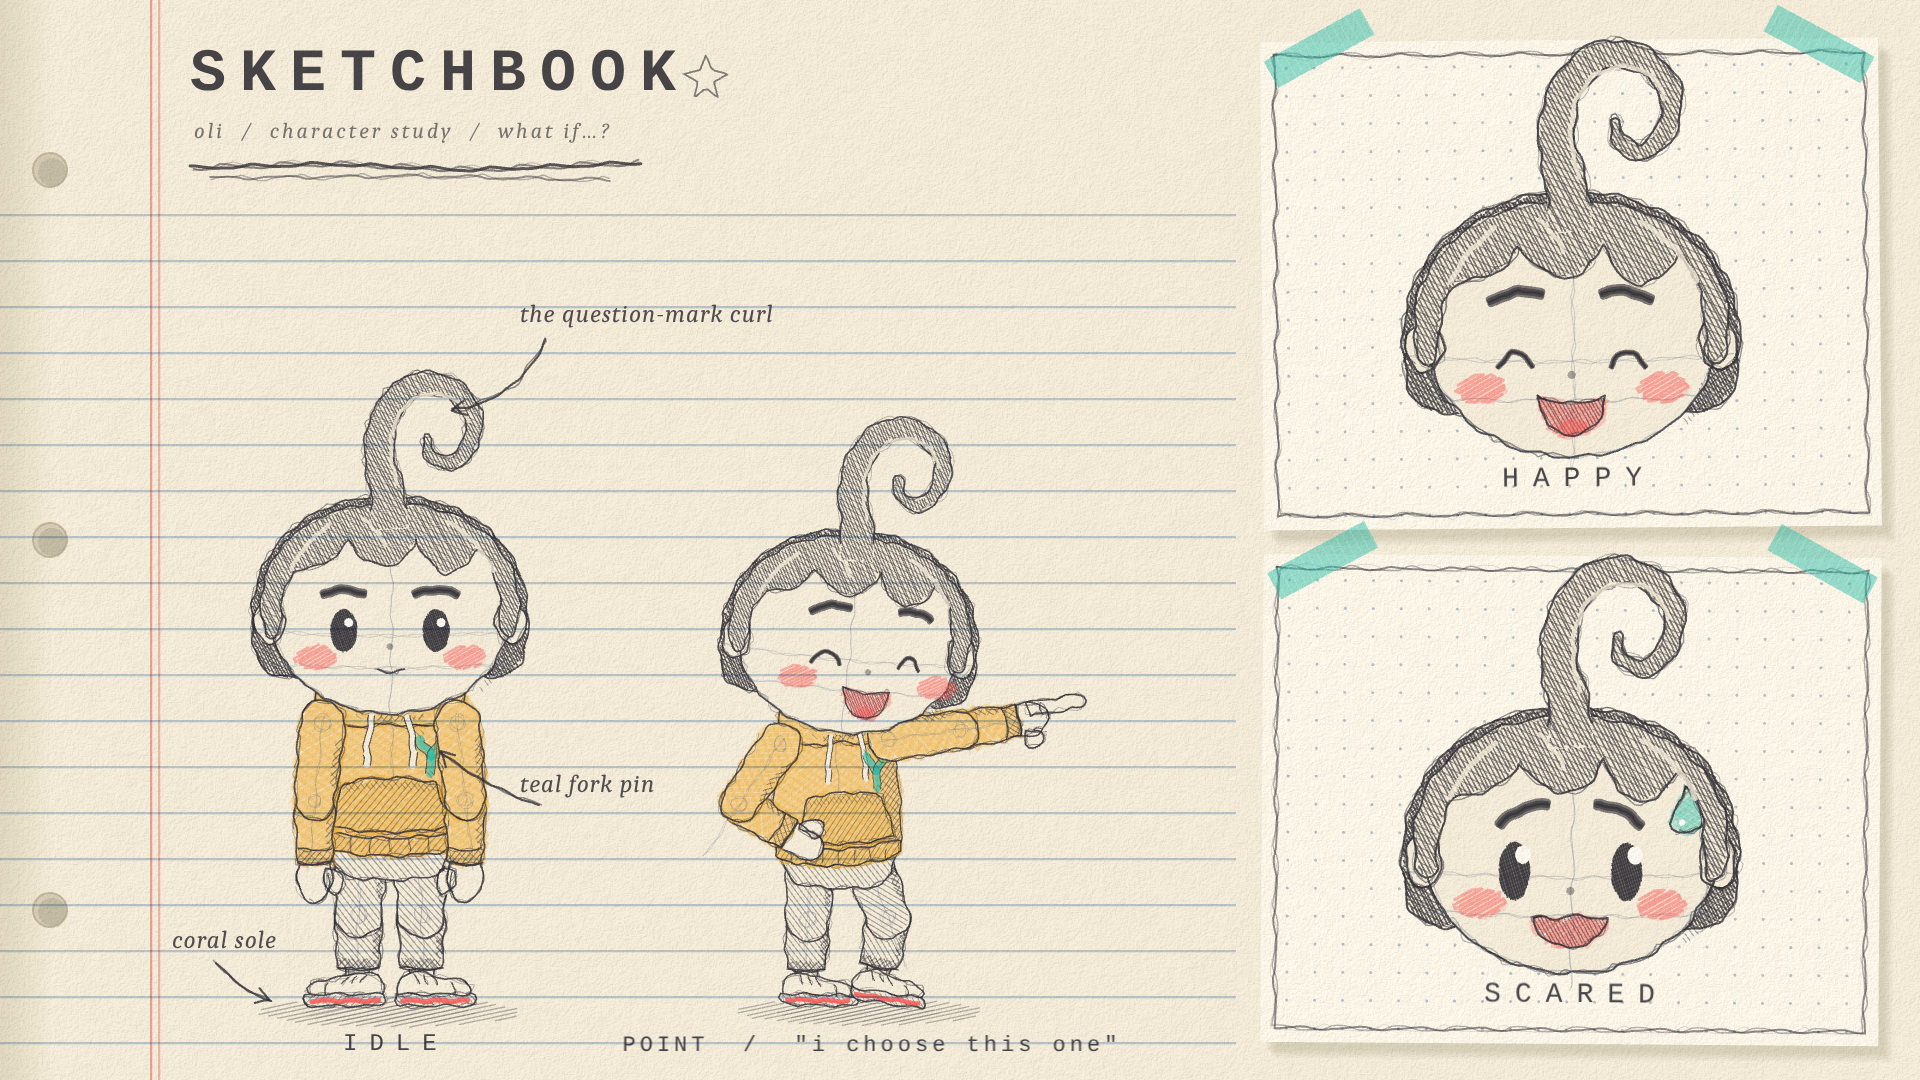
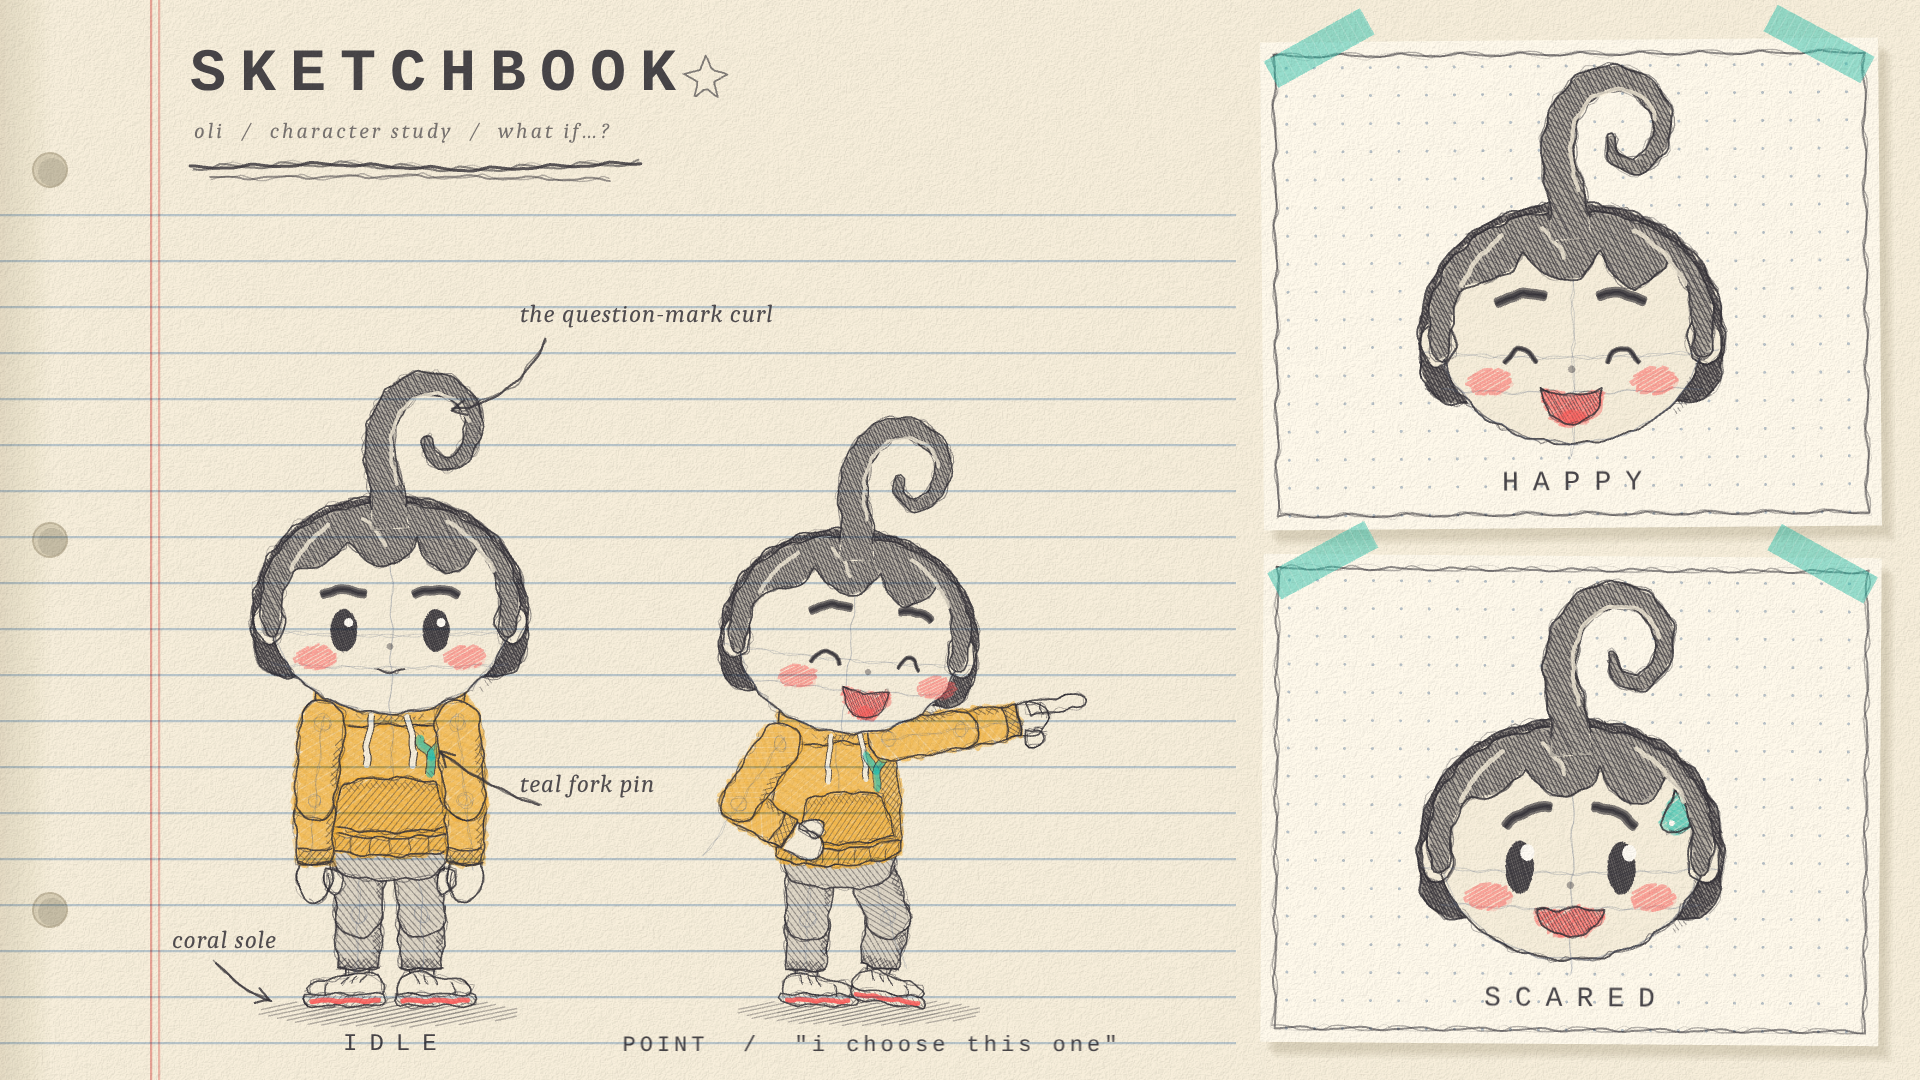
Add voxel, isometric diorama, watercolor and sketchbook character concept sheets
Claude-Session: https://claude.ai/code/session_014Lkf6Yhz1EryPLnDh7J4BE

diff --git a/pilot/characters/concepts/diorama/index.html b/pilot/characters/concepts/diorama/index.html
@@ -1,0 +1,180 @@
+<!doctype html>
+<html lang="en"><head><meta charset="utf-8"><title>ISOMETRIC DIORAMA</title>
+<script type="importmap">{"imports":{"three":"/node_modules/three/build/three.module.js"}}</script>
+<style>
+  html,body{margin:0;background:#F4EAD5}
+  #stage{position:relative;width:1920px;height:1080px;overflow:hidden;background:#F4EAD5;
+    font-family:"Trebuchet MS","Segoe UI","DejaVu Sans",sans-serif;color:#1E1B24}
+  canvas{position:absolute;left:0;top:0;width:1920px;height:1080px}
+  .card{position:absolute;border-radius:26px;background:linear-gradient(180deg,rgba(255,252,244,.78),rgba(250,240,218,.5));box-shadow:inset 0 0 0 2px rgba(120,90,50,.12)}
+  .lab{position:absolute;font-size:16px;font-weight:800;letter-spacing:.18em;text-transform:uppercase;
+    background:#1E1B24;color:#FFF4DC;padding:6px 14px;border-radius:999px}
+  .lab.teal{background:#2EC4B6;color:#1E1B24}
+  .lab.coral{background:#FF5D5D;color:#1E1B24}
+  #title{position:absolute;left:44px;top:22px;font-size:40px;font-weight:900;letter-spacing:.2em;white-space:nowrap}
+  #sub{position:absolute;left:47px;top:78px;font-size:14px;letter-spacing:.18em;text-transform:uppercase;opacity:.6}
+</style></head>
+<body><div id="stage"></div>
+<script type="module">
+import * as THREE from 'three';
+import { createCharacter, setPose, setExpression, PALETTE as P } from './character.js';
+
+const W = 1920, H = 1080;
+const stage = document.getElementById('stage');
+const el = (cls, html, x, y, w, h) => { const d = document.createElement('div'); d.className = cls; d.innerHTML = html;
+  Object.assign(d.style, { left: x + 'px', top: y + 'px', ...(w ? { width: w + 'px', height: h + 'px' } : {}) }); stage.appendChild(d); return d; };
+const R = { idle: [30, 118, 650, 930], point: [696, 118, 650, 930], happy: [1362, 118, 528, 452], scared: [1362, 596, 528, 452] };
+for (const r of Object.values(R)) el('card', '', ...r);
+
+const canvas = document.createElement('canvas'); stage.appendChild(canvas);
+const renderer = new THREE.WebGLRenderer({ canvas, antialias: true, alpha: true, preserveDrawingBuffer: true });
+renderer.setPixelRatio(1); renderer.setSize(W, H, false); renderer.setClearColor(0x000000, 0);
+renderer.toneMapping = THREE.ACESFilmicToneMapping; renderer.toneMappingExposure = 1.05;
+renderer.outputColorSpace = THREE.SRGBColorSpace;
+renderer.shadowMap.enabled = true; renderer.shadowMap.type = THREE.PCFShadowMap;
+
+const hash = (n) => { const x = Math.sin(n * 127.1 + 311.7) * 43758.5453; return x - Math.floor(x); };
+const mats = new Map();
+const M = (hex, o = {}) => { const k = hex + JSON.stringify(o); if (!mats.has(k)) mats.set(k, new THREE.MeshStandardMaterial({ color: hex, flatShading: true, roughness: 0.85, metalness: 0, ...o })); return mats.get(k); };
+const glow = (hex) => new THREE.MeshBasicMaterial({ color: hex, toneMapped: false });
+function box(w, h, d, hex, x, y, z, { cast = true, recv = true, mat } = {}) {
+  const m = new THREE.Mesh(new THREE.BoxGeometry(w, h, d), mat || M(hex)); m.position.set(x, y, z); m.castShadow = cast; m.receiveShadow = recv; return m;
+}
+function lights(scene, { size = 2048, box: bx = 4.5, target = [0, 0.8, 0] } = {}) {
+  scene.add(new THREE.HemisphereLight(0xfff3df, 0xcdb48c, 1.35));
+  const key = new THREE.DirectionalLight(0xffe4be, 3.0);
+  key.position.set(-3.5, 9, 6); key.target.position.set(...target);
+  key.castShadow = true; key.shadow.mapSize.set(size, size);
+  Object.assign(key.shadow.camera, { left: -bx, right: bx, top: bx, bottom: -bx, near: 1, far: 30 });
+  key.shadow.bias = -0.0004; key.shadow.normalBias = 0.03; key.shadow.radius = 5;
+  scene.add(key, key.target);
+  const fill = new THREE.DirectionalLight(0xcfe2ff, 0.7); fill.position.set(7, 3, -2); scene.add(fill);
+}
+
+// ---------- the floating island
+const SZ = 3.6, HALF = SZ / 2;
+function island() {
+  const g = new THREE.Group(); g.name = 'island';
+  // curb ring
+  const cw = 0.12, ch = 0.09;
+  g.add(box(SZ, ch, cw, 0xf3ecdd, 0, ch / 2 - 0.01, HALF - cw / 2), box(SZ, ch, cw, 0xf3ecdd, 0, ch / 2 - 0.01, -HALF + cw / 2),
+    box(cw, ch, SZ - 2 * cw, 0xf3ecdd, HALF - cw / 2, ch / 2 - 0.01, 0), box(cw, ch, SZ - 2 * cw, 0xf3ecdd, -HALF + cw / 2, ch / 2 - 0.01, 0));
+  // paving tiles
+  const n = 5, inner = SZ - 2 * cw, ts = inner / n;
+  g.add(box(inner, 0.1, inner, 0xb9aa8c, 0, -0.06, 0));
+  for (let i = 0; i < n; i++) for (let j = 0; j < n; j++) {
+    const k = i * 7 + j * 3, even = (i + j) & 1, jit = hash(k) * 0.03;
+    g.add(box(ts - 0.035, 0.1, ts - 0.035, even ? 0xe2d6bd : 0xefe5cf, -inner / 2 + ts * (i + 0.5), -0.05 + jit * 0.2, -inner / 2 + ts * (j + 0.5), { cast: false }));
+  }
+  // layers cut away at the edges: concrete, soil, dark soil
+  g.add(box(SZ, 0.2, SZ, 0xcdbfa3, 0, -0.21, 0));
+  g.add(box(SZ - 0.02, 0.5, SZ - 0.02, 0x9c6b45, 0, -0.56, 0));
+  g.add(box(SZ - 0.5, 0.42, SZ - 0.5, 0x7a5034, 0, -1.02, 0));
+  // pebbles + roots poking out of the soil faces
+  for (let i = 0; i < 16; i++) {
+    const t = hash(i * 3.3) * (SZ - 0.5) - (SZ - 0.5) / 2, y = -0.4 - hash(i * 1.7) * 0.4, sc = 0.05 + hash(i * 9.1) * 0.06;
+    const onZ = i % 2 === 0;
+    const p = box(sc * 1.6, sc, sc, 0xc2a57d, onZ ? t : HALF - 0.005, y, onZ ? HALF - 0.005 : t, { cast: false });
+    p.rotation.y = hash(i) * 3; g.add(p);
+  }
+  // hanging rock cones (points down)
+  const rocks = [[0.1, 0.1, 0.95, 1.7], [1.0, 1.0, 0.62, 1.15], [-0.85, 1.0, 0.55, 0.9], [1.15, -0.55, 0.5, 0.85], [-1.0, -0.4, 0.5, 0.8], [0.2, 1.25, 0.4, 0.7]];
+  rocks.forEach(([x, z, r, h], i) => {
+    const m = new THREE.Mesh(new THREE.ConeGeometry(r, h, 5 + (i % 2), 1), M(i % 2 ? 0x6b5a52 : 0x7d6a60)); m.rotation.x = Math.PI; m.rotation.y = i;
+    m.position.set(x, -1.23 - h / 2 + 0.02, z); m.castShadow = true; m.receiveShadow = true; g.add(m);
+  });
+  return g;
+}
+function props() {
+  const g = new THREE.Group(); g.name = 'props';
+  // cut-away brick walls (back corner)
+  const wallC = 0xe6a98a, capC = 0xf6ead2, grooveC = 0xd18d70;
+  const wz = -HALF + 0.27, wx = -HALF + 0.27;
+  g.add(box(SZ - 0.24, 2.35, 0.3, wallC, 0.02, 1.17, wz), box(SZ - 0.24, 0.08, 0.36, capC, 0.02, 2.39, wz));
+  for (const y of [0.45, 0.95, 1.45, 1.95]) g.add(box(SZ - 0.24, 0.025, 0.31, grooveC, 0.02, y, wz + 0.002, { cast: false }));
+  g.add(box(0.3, 1.0, 1.7, wallC, wx, 0.5, -0.8), box(0.36, 0.07, 1.7, capC, wx, 1.03, -0.8));
+  g.add(box(SZ - 0.1, 0.12, 0.34, 0xc4876c, 0.0, 0.06, wz + 0.01, { cast: false }));
+  // mysterious door (teal), set into the back wall
+  const dx = 0.75, dz = wz + 0.17;
+  g.add(box(1.02, 2.12, 0.1, 0xfff4dc, dx, 1.06, dz), box(0.8, 1.95, 0.08, 0x2ec4b6, dx, 0.98, dz + 0.06));
+  g.add(box(0.5, 0.78, 0.03, 0x24a597, dx, 0.58, dz + 0.115, { cast: false }), box(0.5, 0.78, 0.03, 0x24a597, dx, 1.5, dz + 0.115, { cast: false }));
+  const knob = new THREE.Mesh(new THREE.IcosahedronGeometry(0.055, 0), M(0xf2b33d)); knob.position.set(dx + 0.27, 1.0, dz + 0.15); g.add(knob);
+  g.add(box(0.07, 0.12, 0.02, 0x1e1b24, dx, 1.2, dz + 0.12, { cast: false }));
+  g.add(box(0.62, 0.012, 0.35, 0xfff0b0, dx, 0.012, dz + 0.3, { cast: false, mat: glow(0xffe9a3) }));            // light under the door
+  // lamp post
+  const lx = -1.35, lz = 1.05;
+  g.add(box(0.3, 0.12, 0.3, 0x3c3a4a, lx, 0.06, lz), box(0.2, 0.18, 0.2, 0x3c3a4a, lx, 0.21, lz));
+  const pole = new THREE.Mesh(new THREE.CylinderGeometry(0.05, 0.065, 2.6, 6), M(0x3c3a4a)); pole.position.set(lx, 1.5, lz); pole.castShadow = true; g.add(pole);
+  g.add(box(0.36, 0.06, 0.36, 0x3c3a4a, lx, 2.82, lz));
+  g.add(box(0.28, 0.34, 0.28, 0xffd27a, lx, 3.02, lz, { cast: false, mat: glow(0xffd98a) }));
+  const cap = new THREE.Mesh(new THREE.ConeGeometry(0.28, 0.2, 4), M(0x3c3a4a)); cap.rotation.y = Math.PI / 4; cap.position.set(lx, 3.29, lz); cap.castShadow = true; g.add(cap);
+  const pl = new THREE.PointLight(0xffc870, 2.2, 3.2, 2); pl.position.set(lx, 2.9, lz); g.add(pl);
+  // bench against the wall
+  const bx = -0.78, bz = wz + 0.46;
+  for (let i = 0; i < 3; i++) g.add(box(1.0, 0.045, 0.1, 0xb27a52, bx, 0.38, bz - 0.1 + i * 0.1));
+  g.add(box(1.0, 0.18, 0.04, 0xb27a52, bx, 0.72, bz - 0.17), box(1.0, 0.1, 0.04, 0xb27a52, bx, 0.58, bz - 0.17));
+  for (const s of [-1, 1]) g.add(box(0.06, 0.4, 0.3, 0x3c3a4a, bx + s * 0.44, 0.2, bz), box(0.06, 0.38, 0.04, 0x3c3a4a, bx + s * 0.44, 0.58, bz - 0.17));
+  // small shrub by the lamp
+  for (const [x, z, r] of [[-1.45, 1.55, 0.22], [-1.15, 1.58, 0.16], [-1.55, 1.3, 0.14]]) { const b = new THREE.Mesh(new THREE.IcosahedronGeometry(r, 0), M(0x5db56a)); b.position.set(x, r * 0.8, z); b.castShadow = true; g.add(b); }
+  return g;
+}
+function clouds(scene) {
+  const g = new THREE.Group();
+  for (const [x, y, z, s] of [[-3.6, 2.6, -4.5, 1], [4.2, -1.2, 3.5, 0.8]]) {
+    const c = new THREE.Group();
+    for (const [ox, oy, r] of [[0, 0, .5], [.55, -.08, .4], [-.55, -.1, .38], [.15, .25, .35]]) c.add(new THREE.Mesh(new THREE.IcosahedronGeometry(r, 1), M(0xffffff, { roughness: 1, transparent: true, opacity: 0.85 })));
+    [[0, 0], [.55, -.08], [-.55, -.1], [.15, .25]].forEach(([ox, oy], i) => { c.children[i].position.set(ox, oy, 0); c.children[i].scale.set(1, 0.7, 1); });
+    c.position.set(x, y, z); c.scale.setScalar(s); g.add(c);
+  }
+  scene.add(g);
+}
+const sTex = (() => { const cv = document.createElement('canvas'); cv.width = cv.height = 128; const g = cv.getContext('2d');
+  const gr = g.createRadialGradient(64, 64, 2, 64, 64, 62); gr.addColorStop(0, 'rgba(90,60,30,.34)'); gr.addColorStop(.6, 'rgba(90,60,30,.12)'); gr.addColorStop(1, 'rgba(90,60,30,0)');
+  g.fillStyle = gr; g.fillRect(0, 0, 128, 128); const t = new THREE.CanvasTexture(cv); t.colorSpace = THREE.SRGBColorSpace; return t; })();
+
+const panels = [];
+function isoPanel(rect, setup, { fh, target, dir = [1, 1, 1], az = 0 }) {
+  const [, , w, h] = rect, scene = new THREE.Scene(); lights(scene);
+  const aspect = w / h;
+  const cam = new THREE.OrthographicCamera(-fh * aspect / 2, fh * aspect / 2, fh / 2, -fh / 2, 0.1, 100);
+  const t = new THREE.Vector3(...target), d = new THREE.Vector3(...dir).normalize().multiplyScalar(30);
+  cam.position.copy(t).add(d); cam.lookAt(t); cam.updateProjectionMatrix(); cam.updateMatrixWorld();
+  setup(scene); panels.push({ rect, scene, camera: cam });
+}
+function world(scene, pose) {
+  scene.add(island(), props());
+  const sh = new THREE.Mesh(new THREE.PlaneGeometry(6.4, 6.4), new THREE.MeshBasicMaterial({ map: sTex, transparent: true, depthWrite: false, toneMapped: false }));
+  sh.rotation.x = -Math.PI / 2; sh.position.y = -3.3; scene.add(sh);
+  const wrap = new THREE.Group(); wrap.position.set(0.1, 0.0, 0.5); wrap.rotation.y = Math.PI / 4; wrap.scale.setScalar(1.12); scene.add(wrap);
+  const c = createCharacter(); setPose(c, pose); setExpression(c, pose === 'point' ? 'happy' : 'neutral'); wrap.add(c);
+  // standing on the tile surface (y = 0.0)
+  c.position.y = 0.0;
+  return c;
+}
+const ISO = { fh: 7.8, target: [0, 0.3, 0] };
+isoPanel(R.idle, (s) => world(s, 'idle'), ISO);
+isoPanel(R.point, (s) => world(s, 'point'), ISO);
+for (const [k, ex, yaw] of [['happy', 'happy', 0.5], ['scared', 'scared', 0.5]]) {
+  const rect = R[k], [, , w, h] = rect, scene = new THREE.Scene(); lights(scene, { size: 1024, box: 2, target: [0, 1.6, 0] });
+  const c = createCharacter(); setExpression(c, ex); c.rotation.y = yaw; scene.add(c);
+  const fh = 2.15, aspect = w / h;
+  const cam = new THREE.OrthographicCamera(-fh * aspect / 2, fh * aspect / 2, fh / 2, -fh / 2, 0.1, 100);
+  cam.position.set(2.6, 3.2, 6.5).add(new THREE.Vector3(0, 0, 0)); cam.lookAt(0, 1.75, 0); cam.position.y += 0; cam.updateProjectionMatrix(); cam.updateMatrixWorld();
+  panels.push({ rect, scene, camera: cam });
+}
+
+el('lab', 'idle · iso front', R.idle[0] + 18, R.idle[1] + R.idle[3] - 50);
+el('lab', 'point · "this one"', R.point[0] + 18, R.point[1] + R.point[3] - 50);
+el('lab teal', 'happy', R.happy[0] + 18, R.happy[1] + R.happy[3] - 50);
+el('lab coral', 'scared', R.scared[0] + 18, R.scared[1] + R.scared[3] - 50);
+el('', 'ISOMETRIC DIORAMA', 0, 0).id = 'title'; el('', 'Oli · tiny floating street · flat low-poly · orthographic iso camera', 0, 0).id = 'sub';
+document.getElementById('title').style.cssText = 'left:44px;top:22px'; document.getElementById('sub').style.cssText = 'left:47px;top:78px';
+
+renderer.setScissorTest(true);
+for (const p of panels) {
+  const [x, y, w, h] = p.rect;
+  renderer.setViewport(x, H - y - h, w, h); renderer.setScissor(x, H - y - h, w, h);
+  renderer.render(p.scene, p.camera);
+}
+window.__READY = true;
+</script></body></html>

diff --git a/pilot/characters/concepts/diorama/character.js b/pilot/characters/concepts/diorama/character.js
@@ -274,18 +274,17 @@ export function setPose(c, name) {
     p.head.rotation.x = 0.03;
     p.hair_curl.rotation.z = 0.06;
   } else if (name === 'point') {
-    c.rotation.y = -0.8;
-    p.hips.rotation.z = 0.05; p.torso.rotation.z = -0.07; p.torso.rotation.y = 0.12;
-    // pointing arm (near arm): forward, slightly raised
-    p.armR_upper.rotation.set(-1.6, 0, -0.3);
-    p.armR_lower.rotation.set(-0.06, 0, 0);
-    p.handR.userData.index.visible = true;
-    // near arm relaxed, forearm slightly forward
-    p.armL_upper.rotation.set(0.1, 0, 0.24); p.armL_lower.rotation.set(-0.5, 0, 0);
-    // weight on right leg (straight), left leg relaxed
-    p.legR_upper.rotation.set(0, 0, -0.02);
-    p.legL_upper.rotation.set(-0.18, 0, 0.1); p.legL_lower.rotation.set(0.42, 0, 0); p.footL.rotation.set(-0.24, 0, 0);
-    p.head.rotation.set(0.0, 0.5, 0.13);
+    // iso diorama: body faces the camera, the character's LEFT arm (screen right) points sideways at "the one"
+    c.rotation.y = 0;
+    p.hips.rotation.z = -0.05; p.torso.rotation.z = 0.06; p.torso.rotation.y = 0.12;
+    p.armL_upper.rotation.set(0, 0, 1.68);
+    p.armL_lower.rotation.set(0, 0, 0.03);
+    p.handL.userData.index.visible = true;
+    p.armR_upper.rotation.set(0.12, 0, -0.18); p.armR_lower.rotation.set(-0.55, 0, 0);
+    // weight on left leg (straight), right leg relaxed
+    p.legL_upper.rotation.set(0, 0, 0.03);
+    p.legR_upper.rotation.set(-0.16, 0, -0.1); p.legR_lower.rotation.set(0.38, 0, 0); p.footR.rotation.set(-0.2, 0, 0);
+    p.head.rotation.set(0.0, 0.28, -0.12);
     p.hair_curl.rotation.z = -0.1;
   } else throw new Error('unknown pose ' + name);
   groundFeet(c);

diff --git a/pilot/characters/concepts/sketch/index.html b/pilot/characters/concepts/sketch/index.html
@@ -97,8 +97,8 @@ function card(name, expr, x, y, w, h, rot, tape, seed) {
   pencil(g, b, 2, 0.55, 3, 1.4, GR, true);
   c.addChild(g, dots);
   const ch = createCharacter(app, { pose: 'idle', expression: expr, shadow: false, wobbleSeed: seed });
-  const head = ch.parts.head; head.parent.removeChild(head); head.position.set(0, 0); head.rotation = 0; head.scale.set(1.08);
-  const hc = new Container(); hc.position.set(0, h / 2 - 100); hc.addChild(head); c.addChild(hc);
+  const head = ch.parts.head; head.parent.removeChild(head); head.position.set(0, 0); head.rotation = 0; head.scale.set(0.98);
+  const hc = new Container(); hc.position.set(0, h / 2 - 96); hc.addChild(head); c.addChild(hc);
   txt(name, 28, 0, h / 2 - 62, { ax: 0.5, ls: 14, parent: c });
   const tp = new Container(); c.addChild(tp);
   for (const [tx, ty, tr] of tape) { const tg = new Graphics(); tg.rect(-55, -15, 110, 30).fill({ color: '#2EC4B6', alpha: 0.5 }); for (let i = -50; i < 55; i += 8) tg.moveTo(i, -15).lineTo(i, 15).stroke({ width: 1, color: '#fff', alpha: 0.18 }); tg.position.set(tx, ty); tg.rotation = tr; tp.addChild(tg); }
